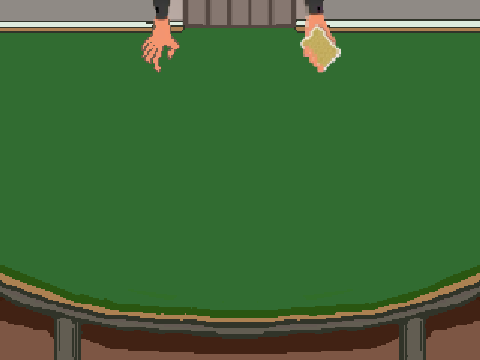
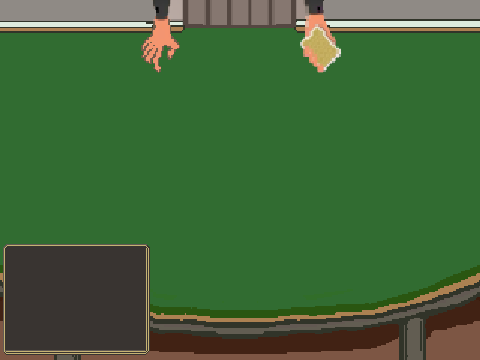
uth game: polish the view cls

Changed region(s): [[0.0, 0.6722, 0.3125, 1.0]]

diff --git a/precursors/uth_poker/uth_view.py b/precursors/uth_poker/uth_view.py
@@ -29,7 +29,7 @@ MLABELS_POS = {
     'blind': (258, 215),
     'play': (231, 243),
 
-    'cash': (53, 275),
+    'cash': (10, 170),
 }
 
 CARD_SLOTS_POS = {  # coords in pixel -> where to place cards/chips
@@ -57,14 +57,15 @@ MONEY_POS = {
     'raise6': (986 / 3, 876 / 3)
 }
 PLAYER_CHIPS = {
-    '2a': (232, 280),  # the only cst value used rn
+    '2a': (238, 278),  # the only cst value used rn
 
     '2b': (905 / 2, 1000 / 2),
     '5': (985 / 2, 1000 / 2),
     '10': (1065 / 2, 1000 / 2),
     '20': (1145 / 2, 1000 / 2)
 }
-CHIP_SELECTOR_POS = (155, 298)
+CHIP_SELECTOR_POS = (168, 295)
+STATUS_MSG_BASEPOS = (8, 258)
 
 
 class UthView(kengi.EvListener):
@@ -85,10 +86,10 @@ class UthView(kengi.EvListener):
 
         self._assets_rdy = False
         self._mod = model
-        self.small_ft = kengi.pygame.font.Font(None, 24)
+        self.small_ft = kengi.pygame.font.Font(None, 20)
         self.info_msg0 = None
         self.info_msg1 = None  # will be used to tell the player what he/she has to do!
-        self.info_msg2 = None
+        self.info_messages = list()
 
         self.scrsize = kengi.get_surface().get_size()
         self.midpt = [self.scrsize[0] // 2, self.scrsize[1] // 2]
@@ -98,10 +99,6 @@ class UthView(kengi.EvListener):
         # self._chips_related_wcontainer.set_debug_flag()
 
         self.chip_scr_pos = tuple(PLAYER_CHIPS['2a'])
-        #[
-        #    self._chips_related_wcontainer.get_pos()[0] + 11,
-        #    self._chips_related_wcontainer.get_pos()[1] - 25
-        #]
 
         self._mlabels = None
         self._do_set_money_labels()  # replace prev. line by a meaningful dict
@@ -134,7 +131,7 @@ class UthView(kengi.EvListener):
             'ante_etq': Label(MLABELS_POS['ante'], 'ante?', ftsize_mlabels),
             'blind_etq': Label(MLABELS_POS['blind'], 'blind?', ftsize_mlabels),
             'play_etq': Label(MLABELS_POS['play'], 'play?', ftsize_mlabels),
-            'cash_etq': Label(MLABELS_POS['cash'], 'cash?', ftsize_mlabels)
+            'cash_etq': Label(MLABELS_POS['cash'], 'cash?', 4+ftsize_mlabels)
         }
         # return wContainer(
         #     (32, self.midpt[1] + 66),
@@ -195,6 +192,8 @@ class UthView(kengi.EvListener):
 
     def show_anteselection(self):
         # ensure everything is reset
+        del self.info_messages[:]
+
         self._chips_related_wcontainer.set_active()
 
         self._act_related_wcontainer.set_active()
@@ -333,9 +332,12 @@ class UthView(kengi.EvListener):
             else:
                 infoh_dealer = self._mod.dealer_vhand.description
                 infoh_player = self._mod.player_vhand.description
-                self.info_msg1 = self.small_ft.render(
-                    f"Player: {infoh_player}; Dealer: {infoh_dealer}; You've lost {result} CR", False, self.TEXTCOLOR
-                )
+                self.info_messages = [
+                    self.small_ft.render(f"Dealer: {infoh_dealer}", False, self.TEXTCOLOR),
+                    self.small_ft.render(f"Player: {infoh_player}", False, self.TEXTCOLOR),
+                    self.small_ft.render(f"You lost {result} CR", False, self.TEXTCOLOR)
+                ]
+
         else:
             raise ValueError('MatchOver event contains a non-valid value for attrib "won". Received value:', ev.won)
 
@@ -386,17 +388,16 @@ class UthView(kengi.EvListener):
                 UthView.centerblit(refscr, x, CARD_SLOTS_POS[loc])
 
         # display all 3 prompt messages
-        rank = 0
-        BASEX = 10
+        offsety = 24
         if self.info_msg0:
-            refscr.blit(self.info_msg0, (BASEX, 10))
+            refscr.blit(self.info_msg0, STATUS_MSG_BASEPOS)
         if self.info_msg1:
             rank = 1
-            refscr.blit(self.info_msg1, (BASEX, 10 + 33 * rank))
+            refscr.blit(self.info_msg1, (STATUS_MSG_BASEPOS[0], STATUS_MSG_BASEPOS[1] + offsety * rank))
         else:
-            if hasattr(self, 'info_messages') and len(self.info_messages):
+            if len(self.info_messages):
                 for rank, e in enumerate(self.info_messages):
-                    refscr.blit(e, (BASEX, 10 + 33 * (rank+1)))
+                    refscr.blit(e, (STATUS_MSG_BASEPOS[0], STATUS_MSG_BASEPOS[1] + offsety * (rank+1)))
 
         self._chips_related_wcontainer.draw()
         # self._money_labels.draw()
